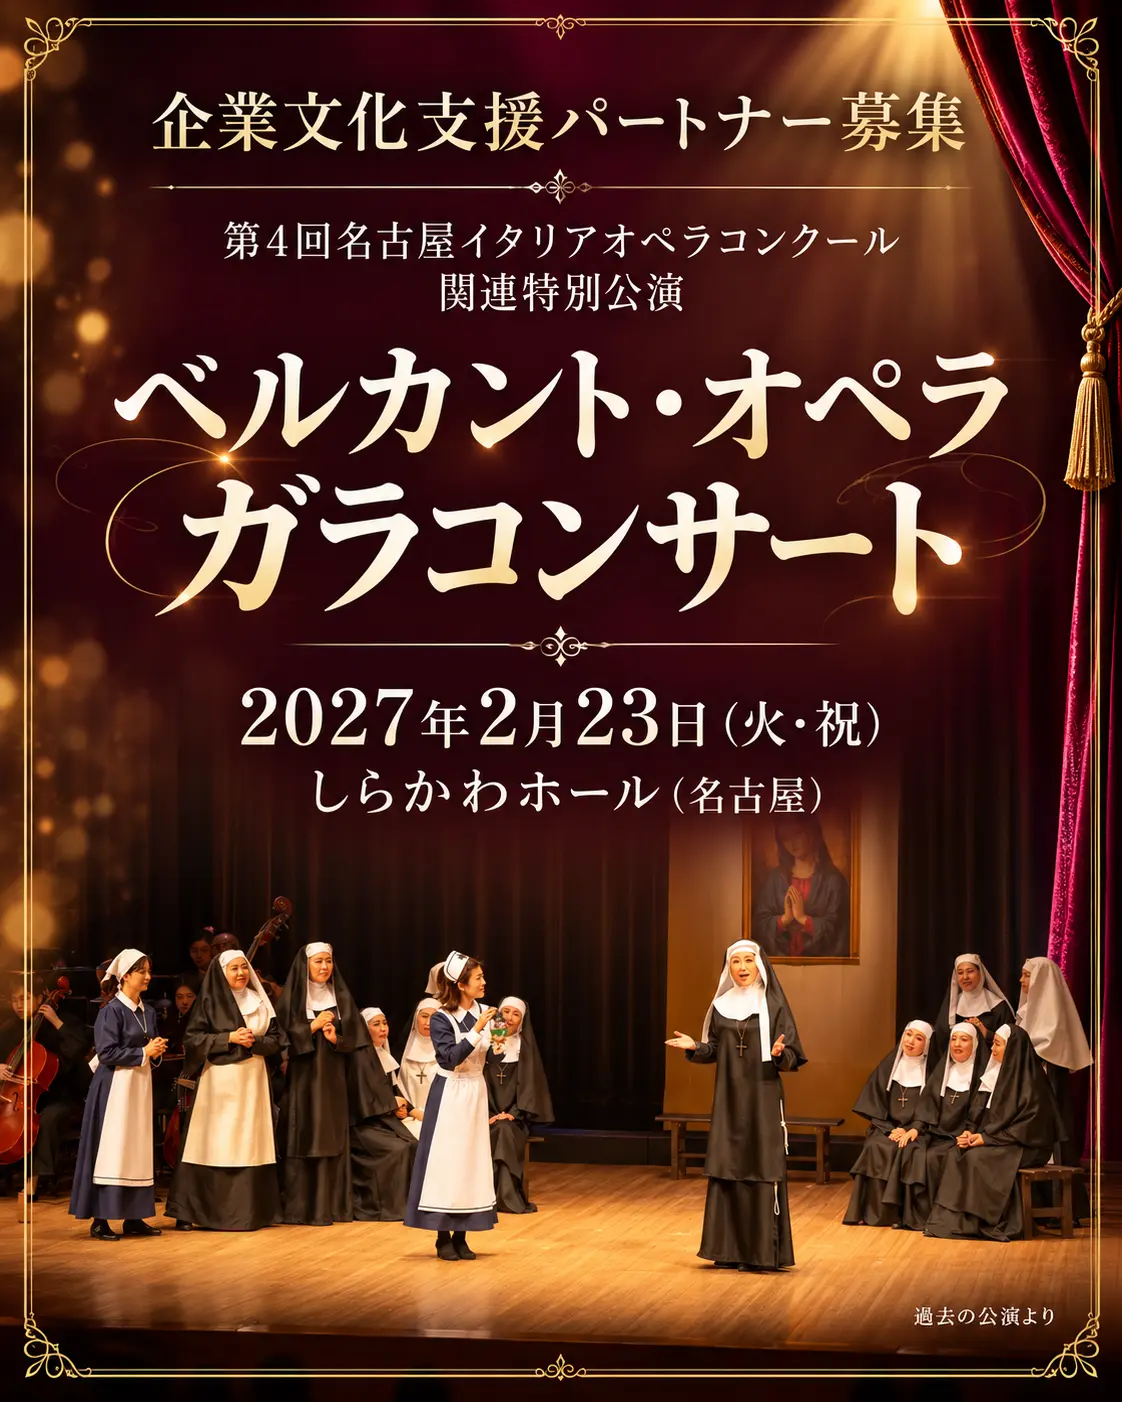
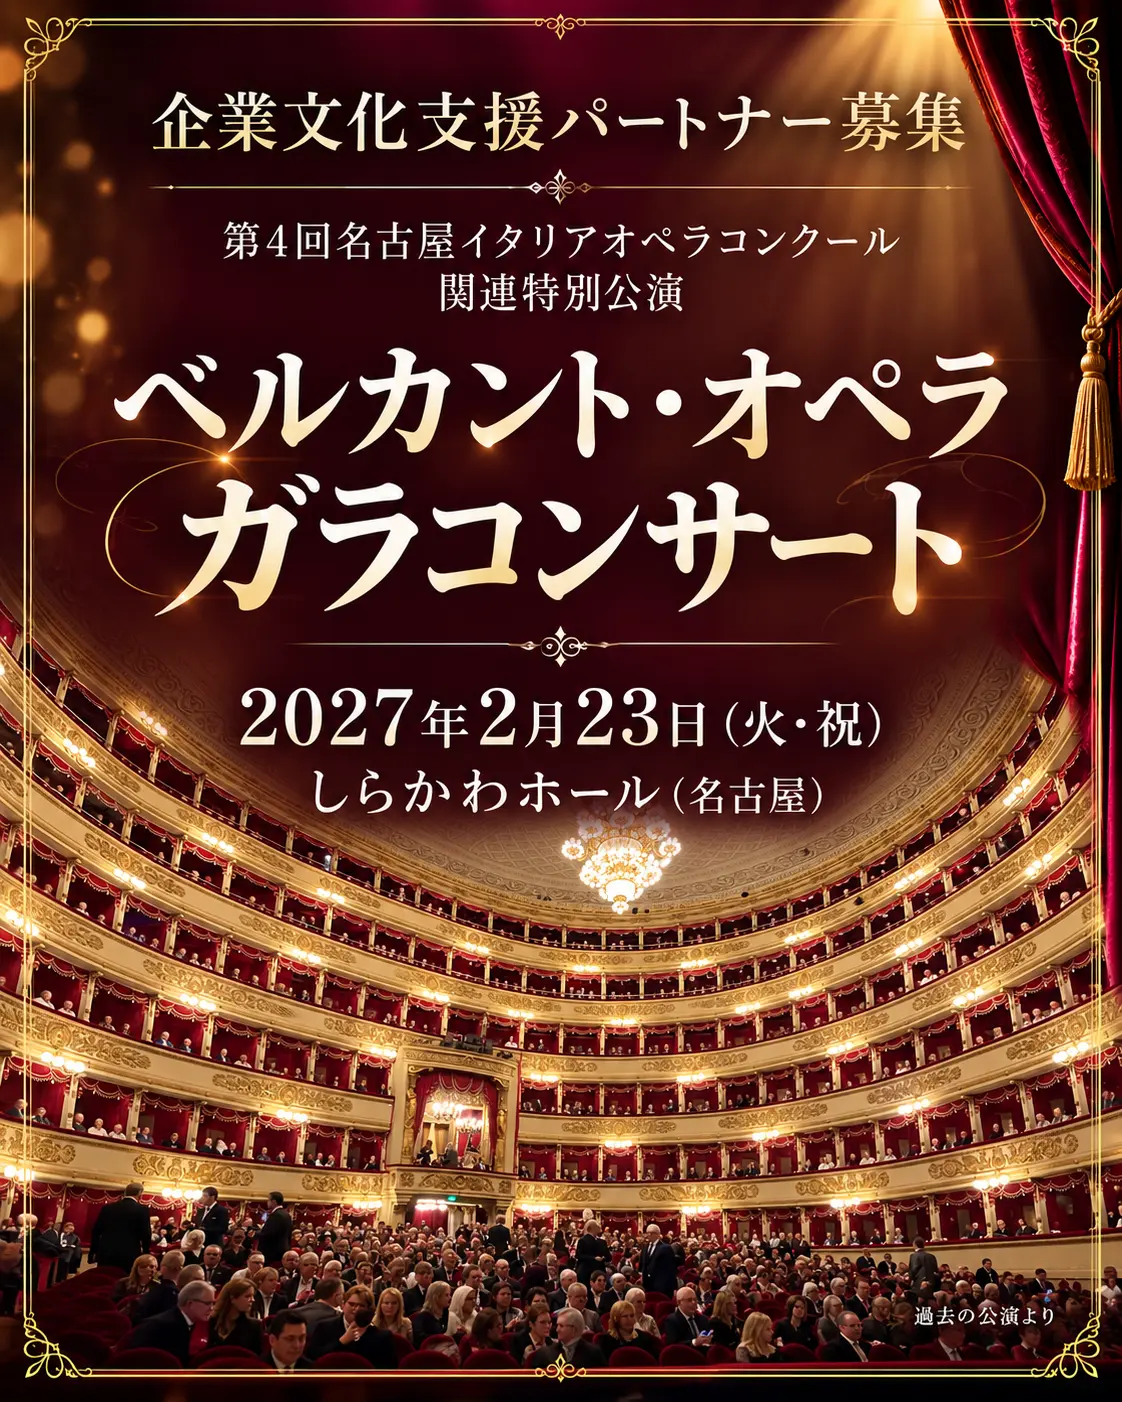
Publish initial design preview

diff --git a/index.html b/index.html
@@ -2,7 +2,7 @@
 <html lang="ja"><head><meta charset="utf-8"><meta name="viewport" content="width=device-width, initial-scale=1"><meta name="robots" content="noindex,nofollow"><meta name="description" content="イタリア音楽振興会 企業文化支援パートナー募集 初回デザイン案"><title>文化の未来を、ともに。｜イタリア音楽振興会</title><link rel="stylesheet" href="style.css?v=33"><link rel="stylesheet" href="refinement.css?v=33"><link rel="stylesheet" href="photo-blend.css?v=33"><link rel="stylesheet" href="typography.css?v=33"><link rel="stylesheet" href="readability.css?v=33"></head>
 <body><div class="sample">SAMPLE <span>初回デザイン案 · 掲載内容は確認中</span></div>
 <header><a class="brand" href="#"><span class="emblem">I</span><span><small>一般社団法人</small>イタリア音楽振興会</span></a><nav aria-label="メインナビゲーション"><a href="#vision">私たちの想い</a><a href="#concert">特別公演</a><a href="#partners">協賛プラン</a><a class="nav-cta" href="#contact">お問い合わせ <span>↗</span></a></nav></header>
-<main><section class="poster-hero" aria-labelledby="hero-title"><h1 id="hero-title" class="sr-only">企業文化支援パートナー募集｜第4回名古屋イタリアオペラコンクール関連特別公演 ベルカント・オペラ ガラコンサート</h1><picture><source media="(min-width: 768px)" srcset="assets/fv-desktop.webp"><img src="assets/fv-mobile.webp" width="1024" height="1536" fetchpriority="high" alt="企業文化支援パートナー募集。第4回名古屋イタリアオペラコンクール関連特別公演、ベルカント・オペラ ガラコンサート。2027年2月23日（火・祝）、しらかわホール（名古屋）。過去の公演写真を使用。"></picture></section><div class="hero-actions"><a class="button burgundy" href="#partners">協賛プランを見る <span>↓</span></a><a class="button outline" href="#contact">協賛について相談する <span>↗</span></a></div><section id="concert" class="concert"><div class="wrap concert-grid"><div class="concert-editorial"><figure class="concert-photo"><img src="assets/gallery-01.webp" width="1600" height="1067" alt="過去の活動での演奏風景"><figcaption>過去の公演より</figcaption></figure><div class="concert-photo-caption"><p class="eyebrow">CULTURE CONNECTS US</p><p>この舞台の感動を、<br><strong>ともに。</strong></p></div></div><div class="concert-copy"><p class="eyebrow">THE SPECIAL STAGE</p><p class="kicker"><span>第4回名古屋イタリアオペラコンクール</span><span>関連特別公演</span></p><h2 class="concert-title"><span>ベルカント・オペラ</span><span>ガラコンサート</span></h2><div class="concert-introduction"><p class="concert-catch"><span>世界を魅了するディーヴァ、来日</span><span>ベルカントに出逢う、特別な一夜</span></p><div class="concert-description"><p>世界的ソプラノ歌手であり、名古屋イタリアオペラコンクールの審査員を務めるデジレ・ランカトーレを迎え、ベルカントの真髄をお届けします。</p><p>美しい旋律と卓越した歌唱技術が織りなす、イタリアオペラの華麗な世界をどうぞご堪能ください。</p><p>さらに、同コンクールの入賞者たちも、しらかわホールの舞台で歌声を披露。世界で活躍する歌姫と未来を担う若き才能が彩る、特別なガラコンサートです。</p></div></div><dl class="event-details"><div><dt>開催日</dt><dd><span class="event-main">2027年2月23日</span><small>（火・祝）</small></dd></div><div><dt>会場</dt><dd><span class="event-main">しらかわホール</span><small>（名古屋）</small></dd></div></dl><a class="text-link" href="https://shirakawahall.jp/" target="_blank" rel="noopener">会場の公式サイトを見る ↗</a></div></div></section>
+<main><section class="poster-hero" aria-labelledby="hero-title"><h1 id="hero-title" class="sr-only">企業文化支援パートナー募集｜第4回名古屋イタリアオペラコンクール関連特別公演 ベルカント・オペラ ガラコンサート</h1><picture><source media="(min-width: 768px)" srcset="assets/fv-desktop.webp?v=33" width="1672" height="941"><img src="assets/fv-mobile.webp?v=33" width="1122" height="1402" fetchpriority="high" alt="企業文化支援パートナー募集。第4回名古屋イタリアオペラコンクール関連特別公演、ベルカント・オペラ ガラコンサート。2027年2月23日（火・祝）、しらかわホール（名古屋）。"></picture></section><div class="hero-actions"><a class="button burgundy" href="#partners">協賛プランを見る <span>↓</span></a><a class="button outline" href="#contact">協賛について相談する <span>↗</span></a></div><section id="concert" class="concert"><div class="wrap concert-grid"><div class="concert-editorial"><figure class="concert-photo"><img src="assets/gallery-01.webp" width="1600" height="1067" alt="過去の活動での演奏風景"><figcaption>過去の公演より</figcaption></figure><div class="concert-photo-caption"><p class="eyebrow">CULTURE CONNECTS US</p><p>この舞台の感動を、<br><strong>ともに。</strong></p></div></div><div class="concert-copy"><p class="eyebrow">THE SPECIAL STAGE</p><p class="kicker"><span>第4回名古屋イタリアオペラコンクール</span><span>関連特別公演</span></p><h2 class="concert-title"><span>ベルカント・オペラ</span><span>ガラコンサート</span></h2><div class="concert-introduction"><p class="concert-catch"><span>世界を魅了するディーヴァ、来日</span><span>ベルカントに出逢う、特別な一夜</span></p><div class="concert-description"><p>世界的ソプラノ歌手であり、名古屋イタリアオペラコンクールの審査員を務めるデジレ・ランカトーレを迎え、ベルカントの真髄をお届けします。</p><p>美しい旋律と卓越した歌唱技術が織りなす、イタリアオペラの華麗な世界をどうぞご堪能ください。</p><p>さらに、同コンクールの入賞者たちも、しらかわホールの舞台で歌声を披露。世界で活躍する歌姫と未来を担う若き才能が彩る、特別なガラコンサートです。</p></div></div><dl class="event-details"><div><dt>開催日</dt><dd><span class="event-main">2027年2月23日</span><small>（火・祝）</small></dd></div><div><dt>会場</dt><dd><span class="event-main">しらかわホール</span><small>（名古屋）</small></dd></div></dl><a class="text-link" href="https://shirakawahall.jp/" target="_blank" rel="noopener">会場の公式サイトを見る ↗</a></div></div></section>
 <section class="intro wrap" id="vision"><figure class="vision-photo"><img src="assets/past-group.webp" width="1200" height="900" loading="lazy" alt="過去の活動での参加者の集合写真"><figcaption>過去の活動より</figcaption></figure><div><p class="eyebrow">OUR VISION</p><h2>一夜の感動を、<br>未来へ続く力に。</h2></div><div class="intro-copy"><p class="lead">音楽を通じて、人と文化をつなぐ。</p><p>私たちが目指すのは、一度のコンサートを成功させることだけではありません。若い音楽家が世界へ羽ばたく機会をつくり、世界で活躍する音楽家を日本に紹介し、イタリアオペラの魅力を次世代へ伝えていくことです。</p><p>企業の皆様のご支援が、音楽家の未来を拓き、日伊の文化交流を深めます。文化を育むパートナーとして、この歩みをご一緒しませんか。</p></div></section>
 <section id="activities" class="activities wrap activities-art"><picture><source media="(min-width:768px)" srcset="assets/activities-desktop.webp" width="1854" height="848"><img src="assets/activities-mobile.webp?v=32" width="814" height="1932" loading="lazy" alt=""></picture><div class="sr-only"><div class="section-heading"><p class="eyebrow">WHAT WE DO</p><h2>文化をつなぐ、4つの活動。</h2></div><div class="activity-grid"><article><span class="number">01</span><h3>若い才能を、世界へ。</h3><p class="activity-name">名古屋イタリアオペラコンクール</p><p>若手歌手の発掘と育成を通じて、次世代のオペラ界を担う人材を応援します。</p></article><article><span class="number">02</span><h3>一流の芸術を、身近に。</h3><p class="activity-name">世界の歌手を迎えるコンサート</p><p>世界で活躍する音楽家を日本へ。心に残る舞台を通して、オペラの魅力を届けます。</p></article><article><span class="number">03</span><h3>国境を越え、響き合う。</h3><p class="activity-name">日本とイタリアの文化交流</p><p>両国の音楽家をつなぎ、新たな挑戦と交流が生まれる機会を育みます。</p></article><article><span class="number">04</span><h3>伝統を、次の世代へ。</h3><p class="activity-name">教育・育成事業</p><p>イタリアオペラの豊かな伝統と表現を、未来を担う音楽家へ継承します。</p></article></div></div><p class="art-caption">※画像は活動内容を表したイメージです。</p></section>
 
